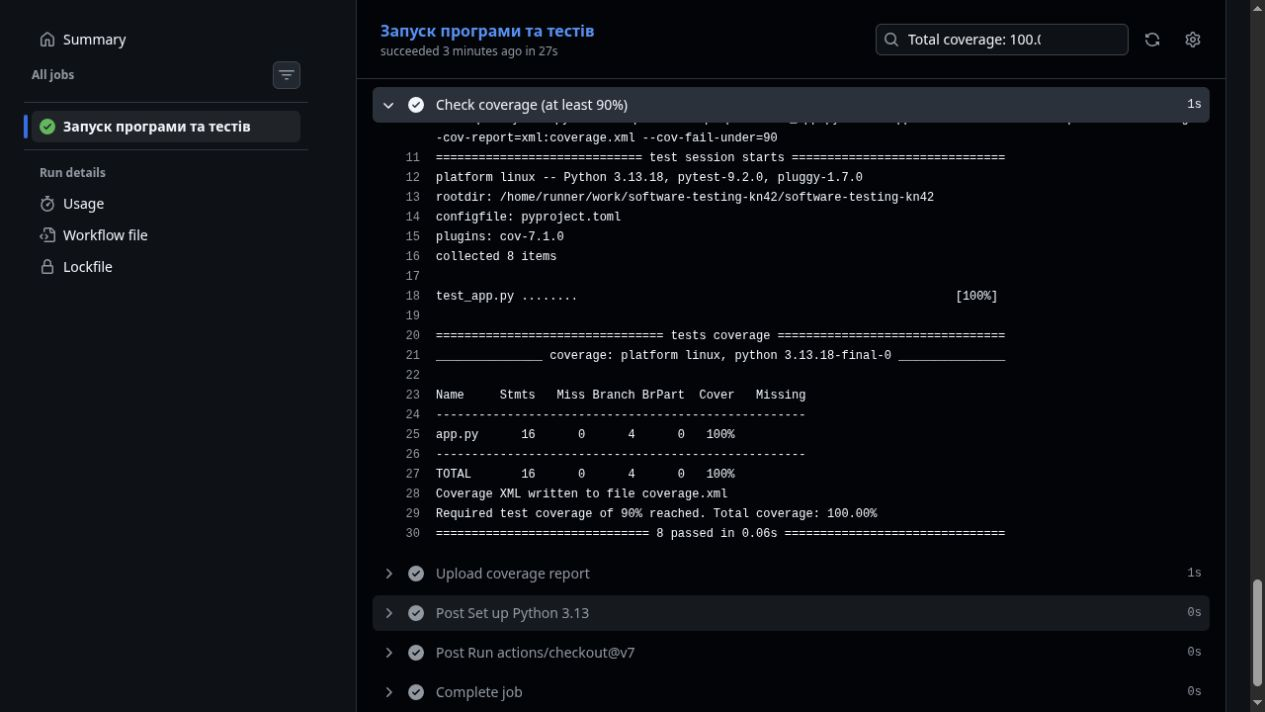
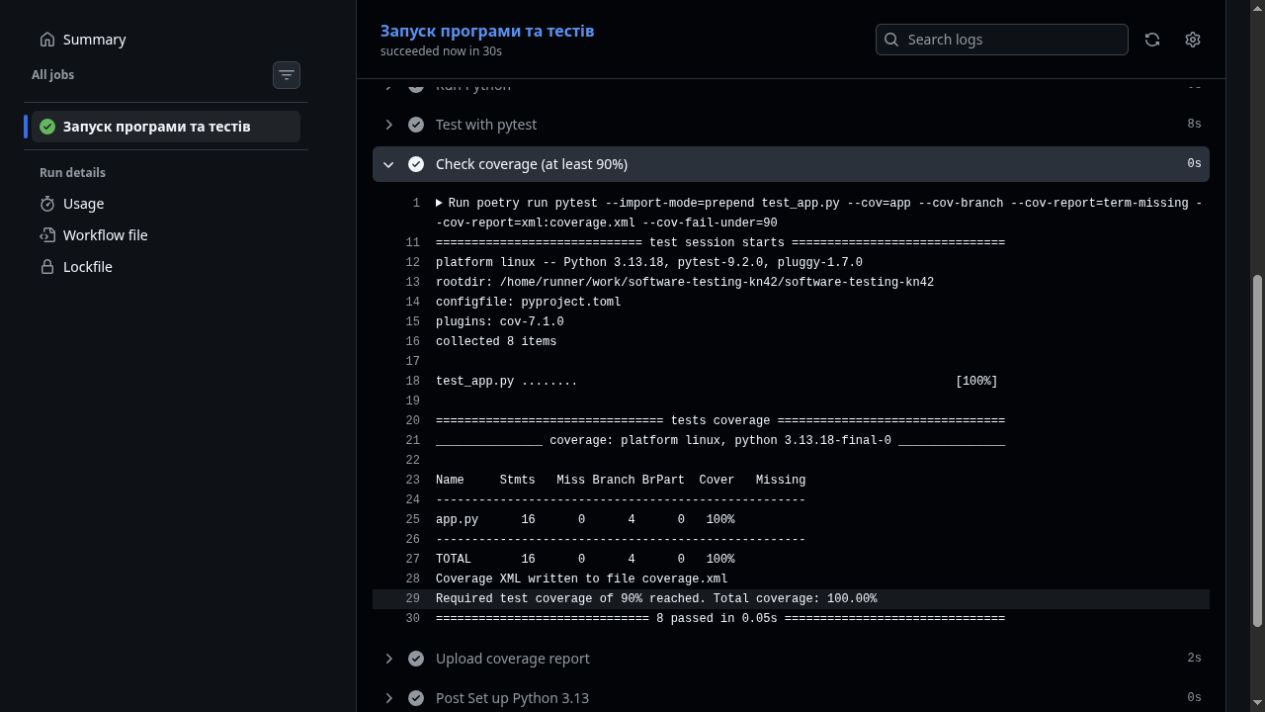
Add screenshots and link the final CI results

diff --git a/testing/5_lab/README.md b/testing/5_lab/README.md
@@ -26,7 +26,7 @@
 
 | Запуск | Результат |
 | --- | --- |
-| [Python application](https://github.com/Funyk/software-testing-kn42/actions/runs/43541828276) | 118 тестів і 12 підтестів пройдено. Один навчальний тест позначено `skip`. Окрема перевірка `app.py` показала 100% при порозі 90%. |
+| [Python application](https://github.com/Funyk/software-testing-kn42/actions/runs/43542647725) | Перевірка `flake8` пройшла без критичних помилок. Пройдено 118 тестів і 12 підтестів. Один навчальний тест позначено `skip`. Окрема перевірка `app.py` показала 100% при порозі 90%. |
 | [Ручний запуск з `name=Артем`](https://github.com/Funyk/software-testing-kn42/actions/runs/43541871473) | Завдання Bash і Python пройшли. Крок `Send greeting` вивів `Привіт, Артем!`. |
 
 Вираз `57 1 * * 6` перевірено в [CronTab Guru](https://crontab.guru/#57_1_*_*_6). Для GitHub Actions час у виразі задано в UTC. [Перевірка виразу](pictures/cron-expression.png).

diff --git a/testing/3_lab/README.md b/testing/3_lab/README.md
@@ -43,7 +43,7 @@ HTML показує виконані й пропущені рядки. У бра
 
 ![HTML-звіт coverage.py у браузері](pictures/coverage-html.png)
 
-У [GitHub Actions](https://github.com/Funyk/software-testing-kn42/actions/runs/43541828276) та сама перевірка пройшла 8 тестів і показала 100% покриття `app.py`, як і локальний запуск. Поріг 90% пройдено. GitHub зберіг [coverage-report](https://github.com/Funyk/software-testing-kn42/actions/runs/43541828276/artifacts/14091279734) з файлом `coverage.xml`.
+У [GitHub Actions](https://github.com/Funyk/software-testing-kn42/actions/runs/43542647725) та сама перевірка пройшла 8 тестів і показала 100% покриття `app.py`, як і локальний запуск. Поріг 90% пройдено. GitHub зберіг [coverage-report](https://github.com/Funyk/software-testing-kn42/actions/runs/43542647725/artifacts/14092646171) з файлом `coverage.xml`.
 
 ![Перевірка покриття в GitHub Actions](pictures/coverage-ci.png)
 

diff --git a/testing/4_lab/README.md b/testing/4_lab/README.md
@@ -33,6 +33,8 @@ poetry run pytest -m integration -v
 
 Пройшли [11 тестів Flask](results/04-teacher.txt) і [7 групових тестів](results/04-group.txt). Окремо перевірено [створення завдання](results/04-teacher-single.txt). Юніт-тест `Student` перевіряє один об’єкт. Інтеграційні тести проходять від HTTP або об’єкта `Student` до фактичних даних у SQLite та файловому експорті, якщо він є частиною сценарію.
 
+![Результат інтеграційних тестів Flask](pictures/flask-tests.png)
+
 ---
 
 ### Висновок

diff --git a/testing/2_lab/README.md b/testing/2_lab/README.md
@@ -35,6 +35,8 @@ PYTHONPATH=src poetry run pytest -v
 
 У [прикладі Figure](results/02-teacher-final.txt) пройшло 17 тестів. У [груповому прикладі](results/02-group-final.txt) пройшло 37 тестів і один пропущено. Методи `unittest.TestCase` використовують `self.assertEqual` і життєвий цикл класу. У функціях pytest достатньо `assert`, а підготовлені дані передаються через аргументи-фікстури.
 
+![Вибір двох тестів за маркером unit](pictures/pytest-marker.png)
+
 ---
 
 ### Висновок

diff --git a/testing/1_lab/README.md b/testing/1_lab/README.md
@@ -34,6 +34,10 @@ PYTHONPATH=src poetry run python -m unittest tests.test_game_unittest -v
 
 Фінальний [запуск Figure і введення](results/01-teacher-final.txt) пройшов 9 тестів. [Автоматичне виявлення](results/01-discovery.txt) також пройшло 9 тестів. У груповому запуску пройшло 9 тестів.
 
+![Результат тесту до виправлення](pictures/unittest-before.png)
+
+![Результат тесту після виправлення](pictures/unittest-after.png)
+
 ---
 
 ### Висновок
